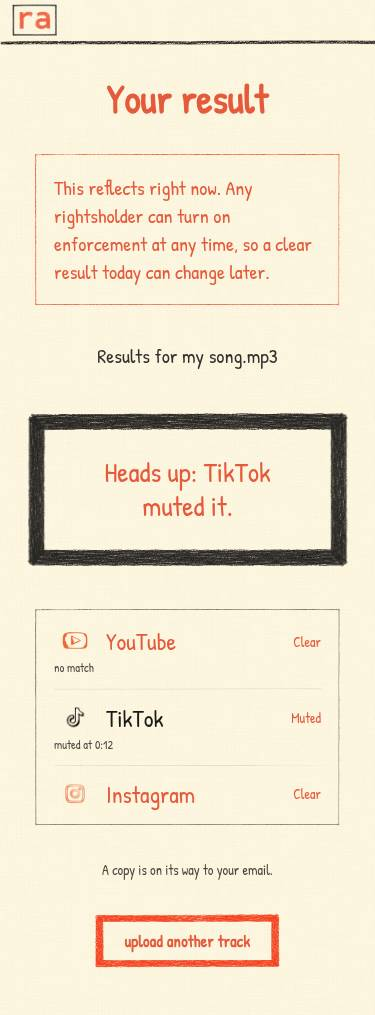
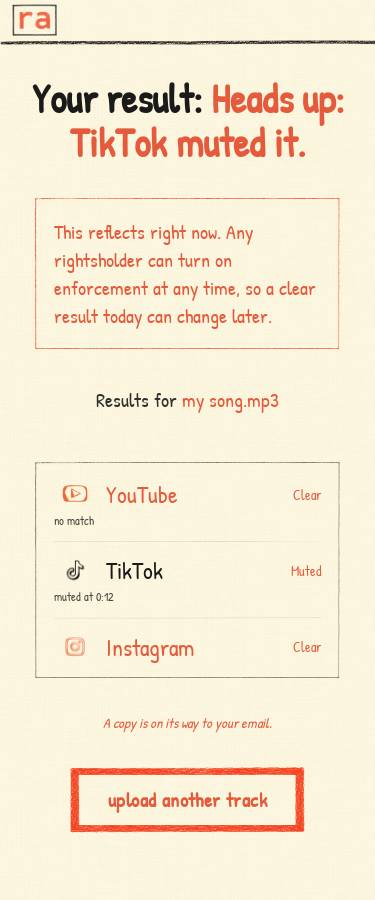
MS-004 fix (Reject1): Spencer's headline / track / email-note / CTA / clear notes
Result page and results email:
- headline is black "Your result:" then the verdict in brand red at the same
  size; the separate button-looking verdict box is removed
- track name in brand red ("Results for <track>")
- every result word in the email is red, "Looks clear on all three." included
Result page only:
- "A copy is on its way to your email." brand red + italic
- "upload another track" slightly bigger (20px, was 16px)
- cache-bust styles.css and result.js to ms004-r2

Cron-only send, emailed_at claim and Idempotency-Key unchanged; no client
send; bot scripts untouched. e2e checks each note; result and email
screenshots refreshed.

diff --git a/clearance-check/src/email.js b/clearance-check/src/email.js
@@ -4,7 +4,9 @@
 // small grey footer), so it reads as the same sender. Colour and type come from
 // the result page (public/styles.css): cream ground, brand red, ink, and the
 // drawn Patrick Hand face, falling back to the license email's mono stack where
-// a client ignores web fonts (Gmail).
+// a client ignores web fonts (Gmail). Like the result page (Reject1): black
+// "Your result:" then the verdict in red at the same size, track name in red,
+// no separate verdict box; every result word is red, "clear" included.
 import { verdictFor, PLATFORMS } from '../public/lib.js';
 
 const CREAM = '#FFF8E0';
@@ -65,15 +67,8 @@ export function buildEmail(row, link) {
             <tr><td style="height:2px;background:${INK};"></td></tr>
             <tr>
               <td align="center" style="padding:36px 16px 8px 16px;font-family:${DRAWN};">
-                <div style="font-size:44px;line-height:1.1;color:${RED};">Your result</div>
-                <div style="font-size:20px;line-height:1.4;margin-top:12px;color:${INK};">Results for ${esc(name)}</div>
-              </td>
-            </tr>
-            <tr>
-              <td style="padding:24px 16px 0 16px;">
-                <table role="presentation" width="100%" border="0" cellspacing="0" cellpadding="0"><tr>
-                  <td align="center" style="border:3px solid ${INK};padding:20px 16px;font-family:${DRAWN};font-size:28px;line-height:1.2;color:${v.flagged ? RED : INK};">${esc(v.text)}</td>
-                </tr></table>
+                <div style="font-size:40px;line-height:1.15;color:${INK};">Your result: <span style="color:${RED};">${esc(v.text)}</span></div>
+                <div style="font-size:20px;line-height:1.4;margin-top:12px;color:${INK};">Results for <span style="color:${RED};">${esc(name)}</span></div>
               </td>
             </tr>
             <tr>
@@ -117,11 +112,9 @@ export function buildEmail(row, link) {
 </html>`;
 
   const text = [
-    'Your result',
+    `Your result: ${v.text}`,
     '',
     `Results for ${name}`,
-    '',
-    v.text,
     '',
     ...lines.map((l) => `${l.name}: ${l.label}${l.note ? ` (${l.note})` : ''}`),
     '',

diff --git a/clearance-check/public/r/index.html b/clearance-check/public/r/index.html
@@ -9,7 +9,7 @@
   <link rel="preconnect" href="https://fonts.googleapis.com">
   <link rel="preconnect" href="https://fonts.gstatic.com" crossorigin>
   <link href="https://fonts.googleapis.com/css2?family=Patrick+Hand&family=Inter:wght@400;500;600;700&display=swap" rel="stylesheet">
-  <link rel="stylesheet" href="/styles.css?v=ms002-r13">
+  <link rel="stylesheet" href="/styles.css?v=ms004-r2">
   <meta name="robots" content="noindex">
 </head>
 <body>
@@ -27,7 +27,8 @@
     <main class="main">
       <div class="container">
         <div class="narrow stack">
-          <h1 class="text-h1 headline">Your result</h1>
+          <!-- Reject1: black "Your result:" then the verdict, same size, in brand red. -->
+          <h1 class="text-h1 headline"><span class="headline-label">Your result:</span> <span id="verdict" aria-live="polite"></span></h1>
 
           <div class="box-sketched-light-red">
             <p class="warning">This reflects right now. Any rightsholder can turn on enforcement at any time, so a clear result today can change later.</p>
@@ -35,15 +36,11 @@
 
           <p class="lead" id="summary">Loading…</p>
 
-          <div class="box-sketched-heavy" id="verdict-box" hidden>
-            <p class="verdict" id="verdict" aria-live="polite"></p>
-          </div>
-
           <div class="box-sketched-light" id="platforms-box" hidden>
             <ul class="platforms" id="platforms" aria-live="polite"></ul>
           </div>
 
-          <p class="text-label muted center" id="footnote"></p>
+          <p class="text-label center" id="footnote"></p>
 
           <div class="actions">
             <a class="btn-primary-cta" id="again" href="/">upload another track</a>
@@ -52,6 +49,6 @@
       </div>
     </main>
   </div>
-  <script src="/result.js?v=ms004-r1" type="module"></script>
+  <script src="/result.js?v=ms004-r2" type="module"></script>
 </body>
 </html>

diff --git a/clearance-check/public/result.js b/clearance-check/public/result.js
@@ -4,7 +4,6 @@ const POLL_MS = 4000;
 const id = decodeURIComponent(location.pathname.split('/')[2] || '');
 const $ = (x) => document.getElementById(x);
 const summary = $('summary');
-const verdictBox = $('verdict-box');
 const verdict = $('verdict');
 const platformsBox = $('platforms-box');
 const list = $('platforms');
@@ -59,16 +58,25 @@ function render(row) {
     const v = verdictFor(row);
     verdict.textContent = v.text;
     verdict.dataset.flagged = String(v.flagged);
-    verdictBox.hidden = false;
   } else {
-    verdictBox.hidden = true;
+    // Until all three are in, the red half of the headline is the progress.
+    verdict.textContent = row.status === 'failed' ? LABEL.error : row.status === 'queued' ? 'Queued' : LABEL.pending;
+    delete verdict.dataset.flagged;
   }
 
   if (row.status === 'failed') {
     summary.textContent = 'The check didn’t finish. Try uploading again.';
     footnote.textContent = '';
   } else if (row.status === 'done') {
-    summary.textContent = row.original_filename ? `Results for ${row.original_filename}` : 'Results are in.';
+    if (row.original_filename) {
+      // Reject1: track name in brand red.
+      const track = document.createElement('span');
+      track.className = 'track-name';
+      track.textContent = row.original_filename;
+      summary.replaceChildren('Results for ', track);
+    } else {
+      summary.textContent = 'Results are in.';
+    }
     footnote.textContent = 'A copy is on its way to your email.';
   } else {
     // Reject9: fold email note into the status line (no separate footnote).

diff --git a/clearance-check/public/styles.css b/clearance-check/public/styles.css
@@ -430,9 +430,11 @@ h1, h2, h3, p { margin: 0; }
 .platform-status[data-result="pending"] { color: var(--color-black); }
 .platform-note { flex-basis: 100%; font-size: 12px; color: rgba(26, 26, 26, 0.8); }
 .platform-note:empty { display: none; }
-.verdict { font-size: 28px; line-height: 1.2; text-align: center; }
-.verdict[data-flagged="true"] { color: var(--color-red); }
-@media (min-width: 768px) { .verdict { font-size: 40px; } }
+/* Reject1: headline is black "Your result:" + the verdict in brand red at the
+   same size (the verdict box is gone); track name red; email note red italic. */
+.headline-label { color: var(--color-black); }
+.track-name { color: var(--color-red); }
+#footnote { color: var(--color-red); font-style: italic; }
 .warning { font-size: 20px; line-height: 1.4; color: var(--color-red); }
 /* Landing: same warning box as the result page, form width, above the form. */
 .landing-warning { max-width: 448px; margin: 0 auto 24px; }
@@ -440,6 +442,8 @@ h1, h2, h3, p { margin: 0; }
 .center { text-align: center; }
 [hidden] { display: none !important; }
 a.btn-default, a.btn-primary-cta { text-decoration: none; }
+/* Reject1: result "upload another track" slightly bigger than the base CTA (16px). */
+.actions .btn-primary-cta { font-size: 20px; padding: var(--space-4) var(--space-8); }
 /* Reject9: result "upload another track" — red at rest + hover; only slight expand */
 .actions .btn-primary-cta:hover {
   transform: scale(1.04);

diff --git a/clearance-check/public/index.html b/clearance-check/public/index.html
@@ -9,7 +9,7 @@
   <link rel="preconnect" href="https://fonts.googleapis.com">
   <link rel="preconnect" href="https://fonts.gstatic.com" crossorigin>
   <link href="https://fonts.googleapis.com/css2?family=Patrick+Hand&family=Inter:wght@400;500;600;700&display=swap" rel="stylesheet">
-  <link rel="stylesheet" href="/styles.css?v=ms002-r13">
+  <link rel="stylesheet" href="/styles.css?v=ms004-r2">
 </head>
 <body>
   <div class="page surface-sketched">
